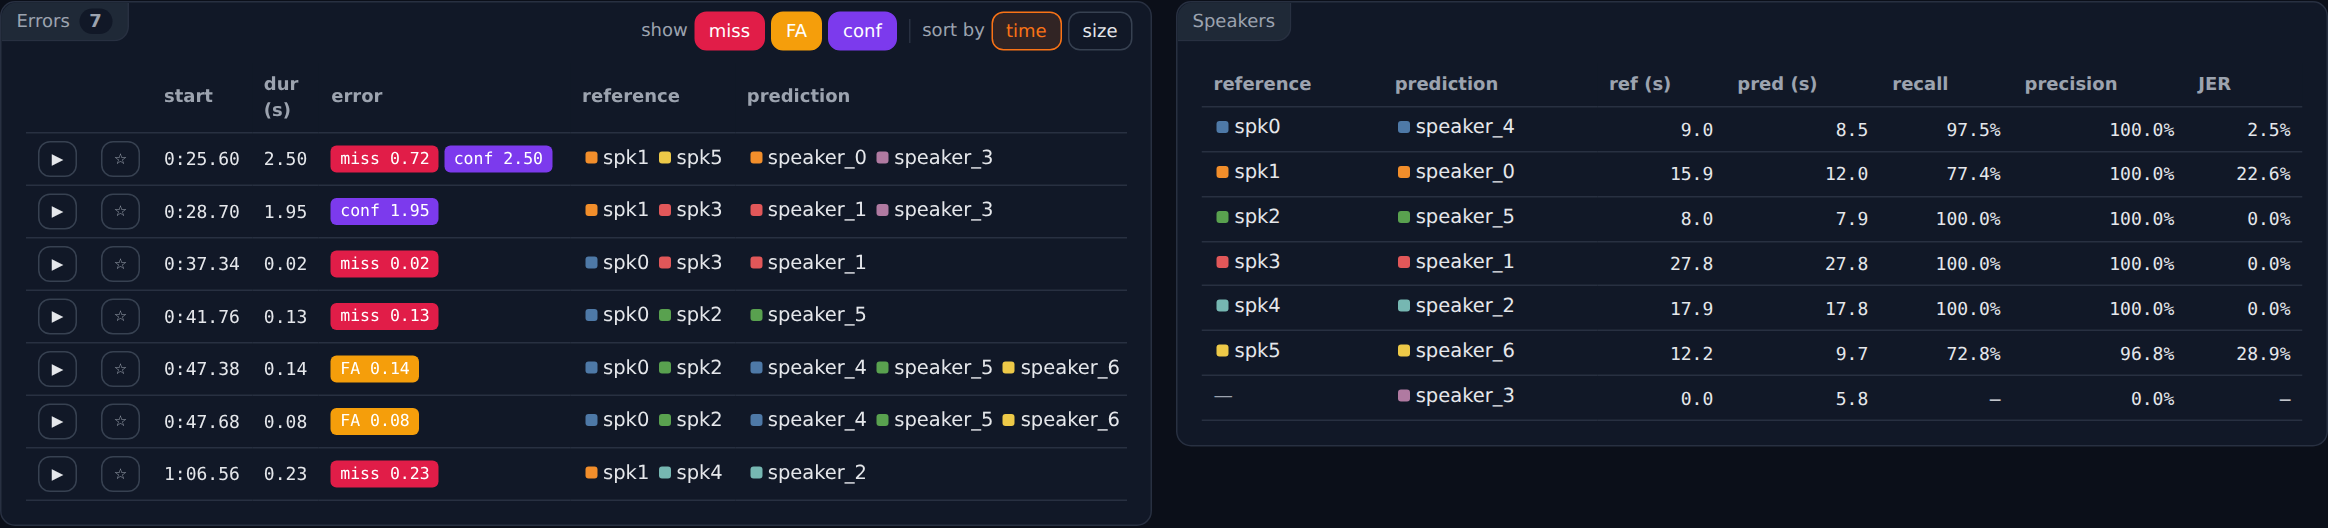
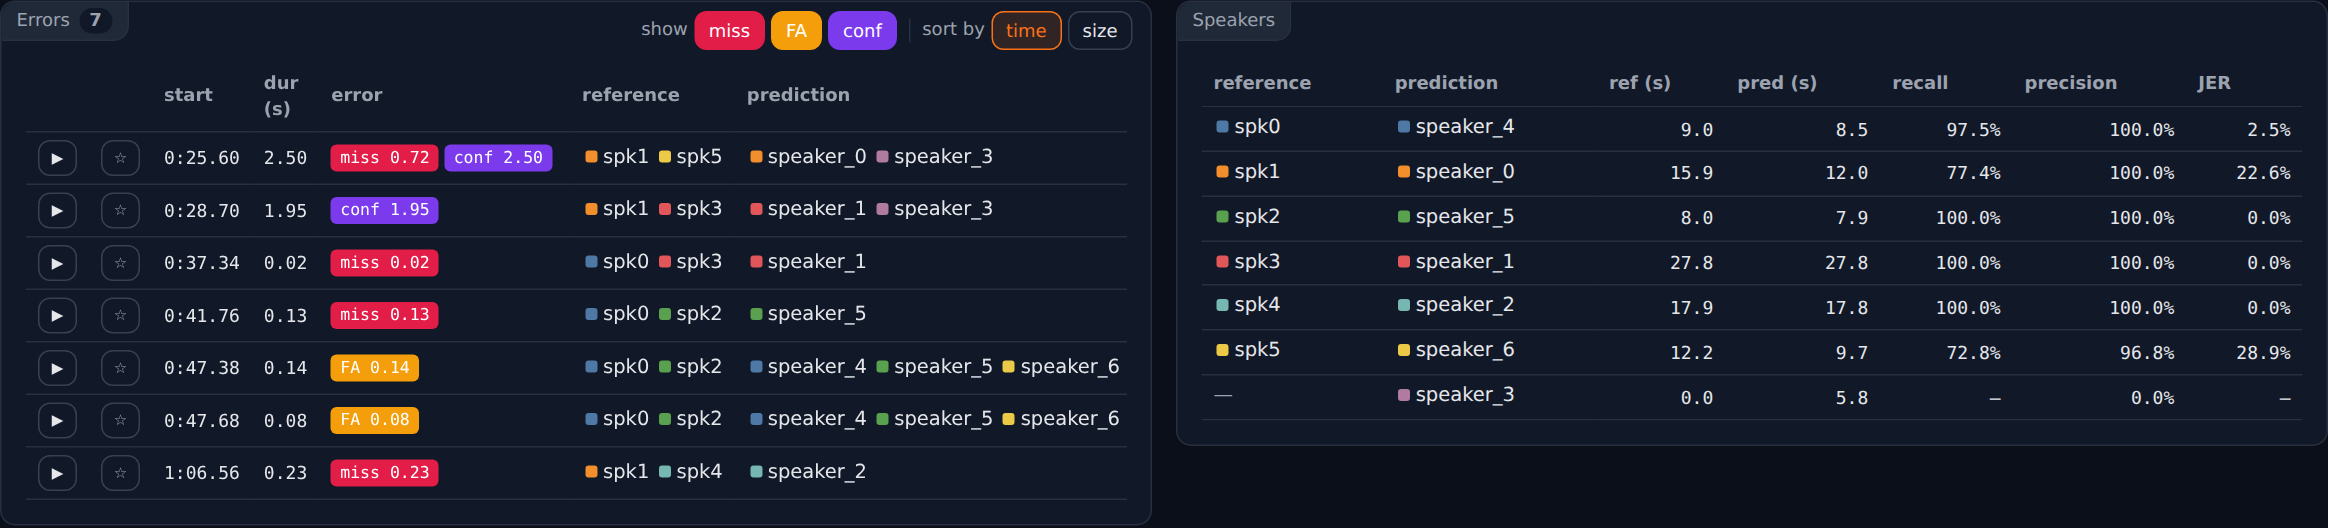
feat: implement A–B looping functionality and enhance UI controls

diff --git a/frontend/app.js b/frontend/app.js
@@ -57,7 +57,7 @@ const store = {
 
 const player = $('#player');
 const timeline = new Timeline({
-  canvas: $('#timeline'), overview: $('#overview'), tooltip: $('#tooltip'), player, describe: describeTime,
+  canvas: $('#timeline'), overview: $('#overview'), tooltip: $('#tooltip'), player, describe: describeTime, onLoop: showLoop,
 });
 
 let result = null;      // last /api/run response
@@ -455,19 +455,23 @@ function renderSets() {
 
   const max = Math.max(1e-9, ...sets.map((s) => s.der ?? 0));
   const p1 = (x) => (x == null ? '–' : `${(x * 100).toFixed(1)}%`);
-  $('#set-chart').innerHTML = sets.map((s) => {
-    const label = `<span class="set-label${s.g === b.set ? ' on' : ''}" data-set="${esc(s.g)}" title="Show only ${esc(s.g)}">${esc(s.g)} <span class="muted">${s.scored}/${s.n}</span></span>`;
-    if (s.der == null) return `${label}<div class="track empty" data-set="${esc(s.g)}"></div><span class="total muted">not run</span>`;
+  // one bar per set, then one for the whole folder (data-set "": click shows all sets)
+  const bar = (s, key, name, cls = '') => {
+    const label = `<span class="set-label${key === (b.set || '') ? ' on' : ''}${cls}" data-set="${esc(key)}"
+      title="${key ? `Show only ${esc(key)}` : 'Show all sets'}">${esc(name)} <span class="muted">${s.scored}/${s.n}</span></span>`;
+    if (s.der == null) return `${label}<div class="track empty" data-set="${esc(key)}"></div><span class="total muted">not run</span>`;
     const err = s.miss + s.fa + s.conf;
     const parts = ERROR_PARTS.map(([k, name, color]) => {
       const x = s[k] / s.speech, share = err ? s[k] / err : 0;
       const w = setView === 'share' ? share * 100 : (x / max) * 100;
       if (w <= 0) return '';
       const text = setView === 'share' ? `${Math.round(share * 100)}%` : p1(x);
-      return `<span style="width:${w}%;background:var(${color})" data-set="${esc(s.g)}" data-part="${k}">${w > 9 ? text : ''}</span>`;
+      return `<span style="width:${w}%;background:var(${color})" data-set="${esc(key)}" data-part="${k}">${w > 9 ? text : ''}</span>`;
     }).join('');
-    return `${label}<div class="track" data-set="${esc(s.g)}">${parts}</div><span class="total">${p1(s.der)}</span>`;
-  }).join('');
+    return `${label}<div class="track" data-set="${esc(key)}">${parts}</div><span class="total${cls}">${p1(s.der)}</span>`;
+  };
+  $('#set-chart').innerHTML = sets.map((s) => bar(s, s.g, s.g)).join('')
+    + `<div class="set-sep"></div>${bar(aggregate(b.rows), '', 'all sets', ' all')}`;
 
   const main = (s) => {
     const top = ERROR_PARTS.reduce((a, p) => (s[p[0]] > s[a[0]] ? p : a));
@@ -500,14 +504,15 @@ function setTip(e) {
   const tip = $('#set-tip');
   const el = e.target.closest('[data-part]');
   if (!el) { tip.hidden = true; return; }
-  const s = aggregate(batch.rows.filter((r) => r.group === el.dataset.set));
+  const set = el.dataset.set;  // '' = the whole folder
+  const s = aggregate(set ? batch.rows.filter((r) => r.group === set) : batch.rows);
   const err = s.miss + s.fa + s.conf;
   const lines = ERROR_PARTS.map(([k, name, color]) => {
     const line = `<i class="dot" style="background:var(${color})"></i>${name}: ${(s[k] / s.speech * 100).toFixed(2)}% of speech · ${
       err ? Math.round((s[k] / err) * 100) : 0}% of the error · ${s[k].toFixed(1)} s`;
     return k === el.dataset.part ? `<b>${line}</b>` : line;
   });
-  tip.innerHTML = `<b>${esc(el.dataset.set)}</b> · DER ${(s.der * 100).toFixed(2)}% · ${s.scored} files<br>${lines.join('<br>')}`;
+  tip.innerHTML = `<b>${esc(set || 'all sets')}</b> · DER ${(s.der * 100).toFixed(2)}% · ${s.scored} files<br>${lines.join('<br>')}`;
   tip.hidden = false;
   const x = Math.min(e.clientX + 14, window.innerWidth - tip.offsetWidth - 8);
   Object.assign(tip.style, { left: `${x}px`, top: `${e.clientY + 14}px` });
@@ -573,7 +578,7 @@ function showResult(res) {
   renderTimeline(sameAudio);
   renderErrors();
   renderSpeakers();
-  if (res.audio !== loadedAudio) loadAudio(res.audio);
+  if (res.audio !== loadedAudio) { timeline.setLoop(null); loadAudio(res.audio); }
   updateTime();
 }
 
@@ -778,8 +783,9 @@ function simpleRows(shown, hypKey) {
   const scoring = `collar ±${res.score.collar} s${res.score.ignore_overlap ? ' · overlap not scored' : ''}`;
   rows.push(
     { kind: 'header', label: `Errors · red: missed · amber: false alarm · purple: confusion · ${scoring}` },
-    { kind: 'stack', label: 'errors', h: 30, unscored: lanes.unscored,
-      tracks: [{ colorVar: '--miss', segs: lanes.miss }, { colorVar: '--fa', segs: lanes.fa }, { colorVar: '--conf', segs: lanes.conf }] },
+    { kind: 'stack', label: 'errors', h: 48, unscored: lanes.unscored,
+      tracks: [{ colorVar: '--miss', segs: lanes.miss, label: 'missed' }, { colorVar: '--fa', segs: lanes.fa, label: 'false alarm' },
+               { colorVar: '--conf', segs: lanes.conf, label: 'confusion' }] },
   );
   return rows;
 }
@@ -861,7 +867,7 @@ function renderErrors() {
       <thead><tr><th></th><th></th><th>start</th><th>dur (s)</th><th title="speaker-seconds">error</th><th>reference</th><th>prediction</th></tr></thead>
       <tbody>${shown.map((g) => `
         <tr data-i="${g.i}">
-          <td><button class="btn icon play" title="Play this region">▶</button></td>
+          <td class="nowrap"><button class="btn icon play" title="Play this region">▶</button><button class="btn icon loop" title="Play this region over and over (A–B loop)">↻</button></td>
           <td>${saveButton(g)}</td>
           <td class="num">${fmtTime(g.start)}</td>
           <td class="num">${(g.end - g.start).toFixed(2)}</td>
@@ -997,6 +1003,37 @@ function playFromStart() {
   if (!player.src) return;
   timeline.seekBy(-player.currentTime);  // to 0:00, scrolling a zoomed-in view back to the start
   player.play();
+}
+
+// A–B loop: the first press sets A at the playback position, the second sets B and starts looping, the third clears it.
+function toggleLoop() {
+  const loop = timeline.loop, t = player.currentTime;
+  if (!player.src) return;
+  if (!loop) return timeline.setLoop([t]);
+  if (loop.length === 1) {
+    if (Math.abs(t - loop[0]) < 0.05) return setStatus('Move to where B should be (play or click the timeline), then press A–B again');
+    timeline.setLoop([Math.min(loop[0], t), Math.max(loop[0], t)]);
+    timeline.seek(timeline.loop[0]);
+    player.play();
+    return;
+  }
+  timeline.setLoop(null);
+}
+
+// Loop one error region, with a little audio around it.
+function loopRegion(g) {
+  focusRegion(g, false);
+  timeline.setLoop([Math.max(0, g.start - 0.3), Math.min(result.duration, g.end + 0.3)]);
+  timeline.seek(timeline.loop[0]);
+  player.play();
+}
+
+function showLoop(loop) {
+  const btn = $('#loop-btn');
+  btn.classList.toggle('on', Boolean(loop));
+  btn.textContent = !loop ? 'A–B' : loop.length === 1 ? `A ${fmtTime(loop[0])} · set B` : `↻ ${fmtTime(loop[0])} – ${fmtTime(loop[1])} ✕`;
+  btn.title = !loop ? 'A–B loop (l): set A here, then B; alt+drag on the timeline also selects a loop'
+    : loop.length === 1 ? 'Set B at the playback position and start looping (l)' : 'Stop looping (l)';
 }
 
 function togglePlay() {
@@ -1611,6 +1648,8 @@ function bindSaved() {
 function bindResults() {
   $('#play-btn').addEventListener('click', togglePlay);
   $('#restart-btn').addEventListener('click', playFromStart);
+  $('#loop-btn').addEventListener('click', toggleLoop);
+  showLoop(null);
   player.addEventListener('play', () => { $('#play-btn').textContent = '❚❚'; });
   player.addEventListener('pause', () => { $('#play-btn').textContent = '▶'; });
   player.addEventListener('timeupdate', updateTime);
@@ -1676,6 +1715,7 @@ function bindResults() {
   $('#errors').addEventListener('click', (e) => {
     const tr = e.target.closest('tr[data-i]');
     if (tr && e.target.closest('.save')) return toggleSave(result.score.regions[Number(tr.dataset.i)]);
+    if (tr && e.target.closest('.loop')) return loopRegion(result.score.regions[Number(tr.dataset.i)]);
     if (tr) focusRegion(result.score.regions[Number(tr.dataset.i)], Boolean(e.target.closest('.play')));
   });
 }
@@ -1708,6 +1748,7 @@ function bindKeys() {
     if (!result) return;
     const actions = {
       ' ': togglePlay,
+      l: toggleLoop,
       Home: playFromStart,
       ArrowLeft: () => (e.shiftKey ? timeline.pan(-0.25) : timeline.seekBy(-SEEK_STEP)),
       ArrowRight: () => (e.shiftKey ? timeline.pan(0.25) : timeline.seekBy(SEEK_STEP)),

diff --git a/frontend/timeline.js b/frontend/timeline.js
@@ -14,8 +14,8 @@ const GUTTER = 150;      // left column for lane labels (px)
 const PAD_RIGHT = 12;
 const MIN_SPAN = 0.05;   // deepest zoom: 50 ms across the plot
 const TICK_STEPS = [0.01, 0.02, 0.05, 0.1, 0.2, 0.5, 1, 2, 5, 10, 15, 30, 60, 120, 300, 600, 1200, 1800, 3600];
-const HEIGHT = { ruler: 22, wave: 100, header: 26, seg: 26, ref: 16, hyp: 28, err: 16, stack: 32 };
-const LANE_KINDS = new Set(['seg', 'ref', 'hyp', 'err', 'stack']);
+const HEIGHT = { ruler: 22, wave: 100, header: 26, seg: 18, ref: 16, hyp: 28, err: 16, stack: 32 };
+const LANE_KINDS = new Set(['ref', 'hyp', 'err', 'stack']);  // grow with `laneScale`; 'seg' (who speaks when) stays compact
 
 export function fmtTime(t, digits = 2) {
   const scale = 10 ** digits;
@@ -25,8 +25,8 @@ export function fmtTime(t, digits = 2) {
 }
 
 export class Timeline {
-  constructor({ canvas, overview, tooltip, player, describe }) {
-    Object.assign(this, { canvas, overview, tooltip, player, describe });
+  constructor({ canvas, overview, tooltip, player, describe, onLoop }) {
+    Object.assign(this, { canvas, overview, tooltip, player, describe, onLoop });
     this.layer = document.createElement('canvas');  // cached static drawing
     this.rows = [];
     this.marks = [];
@@ -39,6 +39,7 @@ export class Timeline {
     this.sel = null;
     this.follow = true;  // during playback, scroll the view along with the cursor
     this.stopAt = null;
+    this.loop = null;    // A–B loop: [a, b], [a] while only A is set, or null
     this.width = 0;
     this.dirty = true;   // static layer must be redrawn
     this.redraw = true;  // composite (cursor, hover, overview) must be redrawn
@@ -49,7 +50,7 @@ export class Timeline {
     requestAnimationFrame(loop);
   }
 
-  // `laneScale` makes the speaker and error lanes taller (the ruler, waveform and headers keep their height).
+  // `laneScale` makes the speaker and error lanes taller (the ruler, waveform, headers and who-speaks-when lanes keep their height).
   setData({ duration, rows, marks, keepView, laneScale = 1 }) {
     const sameLength = Math.abs(duration - this.duration) < 1e-3;
     this.duration = duration;
@@ -120,6 +121,13 @@ export class Timeline {
     if (t < a || t > b) this.setView(t - span * 0.5, t + span * 0.5, true);
   }
 
+  // A–B loop: playback jumps back to A whenever it reaches B.
+  setLoop(loop) {
+    this.loop = loop;
+    this.redraw = true;
+    this.onLoop?.(loop);
+  }
+
   playRange(a, b) {
     if (!this.player.src) return;
     this.player.currentTime = Math.max(0, a);
@@ -164,6 +172,7 @@ export class Timeline {
   _frame() {
     const p = this.player;
     if (!p.paused) {
+      if (this.loop?.length === 2 && p.currentTime >= this.loop[1]) p.currentTime = this.loop[0];
       if (this.stopAt != null && p.currentTime >= this.stopAt) p.pause();
       const [a, b] = this.view;
       const inView = p.currentTime >= a && p.currentTime <= b;
@@ -277,10 +286,12 @@ export class Timeline {
     row.tracks.forEach((track, i) => {
       const mid = top + (i + 0.5) * th1;
       let x = 10;
-      if (i === 0 && row.color) { ctx.fillStyle = row.color; ctx.fillRect(x, mid - 4, 8, 8); }
+      // a track with its own color (the error types) gets its own square; otherwise the row's color marks the first one
+      const swatch = track.colorVar ? th.v(track.colorVar) : i === 0 && row.color;
+      if (swatch) { ctx.fillStyle = swatch; ctx.fillRect(x, mid - 4, 8, 8); }
       x += 14;
       if (track.tag) x = this._drawTag(ctx, track.tag, x, mid, th);
-      ctx.fillStyle = i === 0 ? th.text : th.muted;
+      ctx.fillStyle = i === 0 || track.colorVar ? th.text : th.muted;
       ctx.fillText(ellipsize(ctx, track.label || '', GUTTER - x - 8), x, mid);
     });
     ctx.font = `12px ${th.font}`;
@@ -305,7 +316,7 @@ export class Timeline {
     ctx.fillStyle = th.lane;
     ctx.beginPath(); ctx.roundRect(GUTTER, top, this.plotWidth, h, 5); ctx.fill();
 
-    const pillTop = top + 3, ph = h - 6;
+    const pillTop = top + 2, ph = h - 4;
     ctx.fillStyle = row.color;
     ctx.beginPath();
     for (const [s, e] of row.segs) {
@@ -456,6 +467,26 @@ export class Timeline {
       ctx.fillRect(x0, 0, x1 - x0, this.height);
       ctx.globalAlpha = 1;
     }
+    if (this.loop) {
+      const [la, lb] = this.loop;
+      if (lb != null) {
+        ctx.globalAlpha = 0.1; ctx.fillStyle = th.accent;
+        ctx.fillRect(this.timeToX(la), this.rows[0].y + 14, this.timeToX(lb) - this.timeToX(la), this.height);
+        ctx.globalAlpha = 1;
+      }
+      ctx.setLineDash([4, 3]);
+      ctx.font = `600 10px ${th.font}`;
+      for (const [time, name] of [[la, 'A'], [lb, 'B']]) {
+        if (time == null || time < this.view[0] || time > this.view[1]) continue;
+        const x = Math.round(this.timeToX(time)) + 0.5;
+        line(x, th.accent, 1);
+        ctx.fillStyle = th.accent;
+        ctx.fillRect(x - 6, this.rows[0].y + 1, 12, 12);
+        ctx.fillStyle = '#fff';
+        ctx.fillText(name, x - 3, this.rows[0].y + 7.5);
+      }
+      ctx.setLineDash([]);
+    }
     if (this.hoverX != null) line(Math.round(this.hoverX) + 0.5, th.muted, 1);
     const t = this.player.currentTime;
     if (t >= this.view[0] && t <= this.view[1]) line(this.timeToX(t), th.accent, 2);
@@ -487,6 +518,11 @@ export class Timeline {
     ctx.fillRect(x(a), 0, Math.max(2, x(b) - x(a)), h);
     ctx.globalAlpha = 1; ctx.strokeStyle = th.accent; ctx.lineWidth = 1;
     ctx.strokeRect(x(a) + 0.5, 0.5, Math.max(2, x(b) - x(a)) - 1, h - 1);
+    if (this.loop?.length === 2) {
+      ctx.globalAlpha = 0.35; ctx.fillStyle = th.accent;
+      ctx.fillRect(x(this.loop[0]), h - 10, Math.max(2, x(this.loop[1]) - x(this.loop[0])), 4);
+      ctx.globalAlpha = 1;
+    }
     ctx.fillStyle = th.accent;
     ctx.fillRect(x(this.player.currentTime), 0, 1.5, h);
   }
@@ -500,6 +536,8 @@ export class Timeline {
       e.preventDefault();
       const unit = e.deltaMode === 1 ? 30 : e.deltaMode === 2 ? 300 : 1;
       const dx = e.deltaX * unit, dy = e.deltaY * unit;
+      // ctrl + wheel scrolls the page (or the full-screen view) up and down, to reach the lanes below
+      if (e.ctrlKey || e.metaKey) { (document.fullscreenElement || document.scrollingElement).scrollBy(0, dy); return; }
       if (e.shiftKey || Math.abs(dx) > Math.abs(dy)) this.pan((dx || dy) / this.plotWidth);
       else this.zoom(Math.exp(dy * 0.002), e.offsetX > GUTTER ? this.xToTime(e.offsetX) : undefined);
     }, { passive: false });
@@ -507,13 +545,13 @@ export class Timeline {
     c.addEventListener('pointerdown', (e) => {
       if (e.button !== 0 || !this.duration) return;
       c.setPointerCapture(e.pointerId);
-      this.drag = { x: e.offsetX, t: this.xToTime(e.offsetX), view: [...this.view], shift: e.shiftKey, moved: false };
+      this.drag = { x: e.offsetX, t: this.xToTime(e.offsetX), view: [...this.view], shift: e.shiftKey, alt: e.altKey, moved: false };
     });
     c.addEventListener('pointermove', (e) => {
       const d = this.drag;
       if (d) {
         if (Math.abs(e.offsetX - d.x) > 3) d.moved = true;
-        if (d.moved && d.shift) this.sel = [d.t, this.xToTime(e.offsetX)];
+        if (d.moved && (d.shift || d.alt)) this.sel = [d.t, this.xToTime(e.offsetX)];
         else if (d.moved) {
           const dt = ((e.offsetX - d.x) / this.plotWidth) * (d.view[1] - d.view[0]);
           this.setView(d.view[0] - dt, d.view[1] - dt);
@@ -532,7 +570,11 @@ export class Timeline {
       if (this.sel) {
         const s = Math.min(...this.sel), t = Math.max(...this.sel);
         this.sel = null;
-        if (t - s > 0.01) this.setView(s, t);
+        if (t - s > 0.01 && d.alt) {  // alt+drag: loop this region
+          this.setLoop([Math.max(0, s), Math.min(this.duration, t)]);
+          this.seek(s);
+          this.player.play();
+        } else if (t - s > 0.01) this.setView(s, t);
       } else if (!d.moved && e.offsetX >= GUTTER) {
         this.seek(this.xToTime(e.offsetX));
       }
@@ -561,6 +603,9 @@ export class Timeline {
     ov.addEventListener('pointerup', () => { this.ovDrag = false; });
 
     this.player.addEventListener('pause', () => { this.stopAt = null; });
+    this.player.addEventListener('ended', () => {  // B at the very end of the file
+      if (this.loop?.length === 2) { this.player.currentTime = this.loop[0]; this.player.play(); }
+    });
     this.player.addEventListener('play', () => { this.follow = true; });
   }
 

diff --git a/frontend/index.html b/frontend/index.html
@@ -149,6 +149,7 @@
         <div class="toolbar">
           <button id="restart-btn" class="btn icon" title="Play from the start (Home)">⏮</button>
           <button id="play-btn" class="btn icon" title="Play / pause (space)">▶</button>
+          <button id="loop-btn" class="btn">A–B</button>
           <span id="time" class="time">0:00.00 / 0:00.00</span>
           <select id="speed" title="Playback speed">
             <option value="0.5">0.5×</option><option value="0.75">0.75×</option><option value="1" selected>1×</option>
@@ -171,7 +172,7 @@
           <button id="prev-err" class="btn" title="Previous error (p)">◀ error</button>
           <button id="next-err" class="btn" title="Next error (n)">error ▶</button>
           <label class="check" id="show-all-wrap"><input type="checkbox" id="show-all"> <span id="show-all-label">silent outputs</span></label>
-          <label class="check" id="show-diar-wrap" title="The 'Diarization · who speaks when' lanes of the Detailed view"><input type="checkbox" id="show-diar" checked> who speaks when</label>
+          <label class="check" id="show-diar-wrap" title="Show or hide the 'Diarization · who speaks when' lanes at the top of the Detailed view"><input type="checkbox" id="show-diar" checked> who speaks when</label>
           <label class="check" id="show-diff-wrap" title="Mark each predicted speaker where it differs from its reference speaker"><input type="checkbox" id="show-diff" checked> differences</label>
           <span class="grow"></span>
           <button id="fullscreen-btn" class="btn icon" title="Full screen (f)">⛶</button>
@@ -185,8 +186,8 @@
           <div id="tooltip" hidden></div>
         </div>
         <p class="hint">
-          wheel: zoom · drag or shift+wheel: pan · click: seek · shift+drag: zoom to region · double-click: fit ·
-          keys: <kbd>space</kbd> play <kbd>Home</kbd> from the start <kbd>←</kbd><kbd>→</kbd> seek 5 s (shift: pan) <kbd>m</kbd> mute <kbd>f</kbd> full screen <kbd>+</kbd><kbd>−</kbd> zoom <kbd>0</kbd> fit
+          wheel: zoom · drag or shift+wheel: pan · ctrl+wheel: scroll up / down · click: seek · shift+drag: zoom to region · alt+drag: loop a region · double-click: fit ·
+          keys: <kbd>space</kbd> play <kbd>Home</kbd> from the start <kbd>l</kbd> A–B loop <kbd>←</kbd><kbd>→</kbd> seek 5 s (shift: pan) <kbd>m</kbd> mute <kbd>f</kbd> full screen <kbd>+</kbd><kbd>−</kbd> zoom <kbd>0</kbd> fit
           <kbd>n</kbd><kbd>p</kbd> next / previous error
         </p>
       </section>

diff --git a/frontend/style.css b/frontend/style.css
@@ -144,6 +144,7 @@ body[data-mode="folder"] .file-only { display: none; }
 .saved-search { max-width: 360px; }
 a.btn { display: inline-flex; align-items: center; text-decoration: none; }
 .btn.save { color: var(--muted); }
+td.nowrap .btn + .btn { margin-left: 4px; }
 .btn.save.on { color: #f5b301; }
 .table input.note { width: 220px; height: 26px; font-size: 12px; }
 .set-analysis { margin: 4px 0 12px; }
@@ -160,6 +161,8 @@ a.btn { display: inline-flex; align-items: center; text-decoration: none; }
 .set-chart .track > span:hover { filter: brightness(1.15); }
 .set-chart .track.empty { border: 1px dashed var(--border); border-radius: 4px; }
 .set-chart .total { font: 12px var(--mono); text-align: right; }
+.set-chart .set-sep { grid-column: 1 / -1; border-top: 1px solid var(--border); }
+.set-chart .all { font-weight: 700; }
 .set-tip { position: fixed; z-index: 20; pointer-events: none; padding: 6px 9px; border: 1px solid var(--border);
   border-radius: 6px; background: var(--panel); font-size: 12px; box-shadow: 0 4px 14px rgba(0, 0, 0, 0.25); }
 .set-tip b { font-weight: 600; }

diff --git a/README.md b/README.md
@@ -97,7 +97,7 @@ Choose **Folder**, put a folder in **Audio folder** (and optionally in **Referen
 
   ![Per set, share of error: each bar is 100% of that set's error](docs/images/per-set-share.png)
 
-  - A bar per set split into missed / false alarm / confusion. **% of speech**: the parts add up to the set's DER.
+  - A bar per set split into missed / false alarm / confusion, and one for **all sets** (the whole folder) below them. **% of speech**: the parts add up to the set's DER.
     **share of error**: each part as a share of that set's error, so the dominant one stands out. Hover a part for its numbers.
   - A table per set (and all sets): DER, missed, false alarm, confusion, JER, the **main error**, mean speakers reference →
     predicted, how often the speaker count is right / too few / too many, and the share of overlapped reference speech.
@@ -127,7 +127,7 @@ What you get:
   - **Detailed**, with every speaker on its own lanes:
     - the waveform;
     - **diarization**: who speaks when, one lane per predicted speaker, with highlighted columns where 2+ speakers talk at once
-      (the **who speaks when** checkbox hides it);
+      in compact lanes (they keep their height when **lanes S / M / L / XL** changes; the **who speaks when** checkbox hides them);
     - each reference speaker, with the predicted speaker it was mapped to drawn below in the same color; with **differences** on, that lane is marked red where the reference speaker talks but the prediction misses it and amber where the prediction adds speech the reference does not have (collar excluded);
     - the model's speaker probability, with the onset/offset thresholds as dashed lines;
     - error lanes: missed / false alarm / confusion / reference overlap (gray = inside the collar, not scored);
@@ -146,8 +146,12 @@ What you get:
   the file at that error, **WAV** downloads one clip and **Download all** gives a zip with every clip, JSON and the CSV.
 - **Download**: RTTM, or JSON (includes the raw speaker probabilities).
 
-Mouse: wheel = zoom, drag or shift+wheel = pan, click = seek, shift+drag = zoom to a region, double-click = fit.
-Keys: `[` `]` previous / next file, `space` play, `Home` play from the start, `←` `→` seek 5 s (`shift` + `←` `→` pan), `m` mute, `f` full screen (metrics, timeline, error list and speakers table; `Esc` leaves), `+` `−` zoom, `0` fit, `n` / `p` next / previous error.
+**A–B loop**: press **A–B** (or `l`) to set A at the playback position, move on and press it again to set B: playback then
+repeats A → B until you press it a third time. **Alt+drag** on the timeline loops the dragged region, and ↻ on an error row
+loops that error (0.3 s on each side). The loop shows as a shaded band with A / B markers; opening another file clears it.
+
+Mouse: wheel = zoom, drag or shift+wheel = pan, ctrl+wheel = scroll the page up / down (to reach the lanes below when there are many speakers), click = seek, shift+drag = zoom to a region, double-click = fit.
+Keys: `[` `]` previous / next file, `space` play, `Home` play from the start, `l` A–B loop, `←` `→` seek 5 s (`shift` + `←` `→` pan), `m` mute, `f` full screen (metrics, timeline, error list and speakers table; `Esc` leaves), `+` `−` zoom, `0` fit, `n` / `p` next / previous error.
 
 ## Scoring
 
